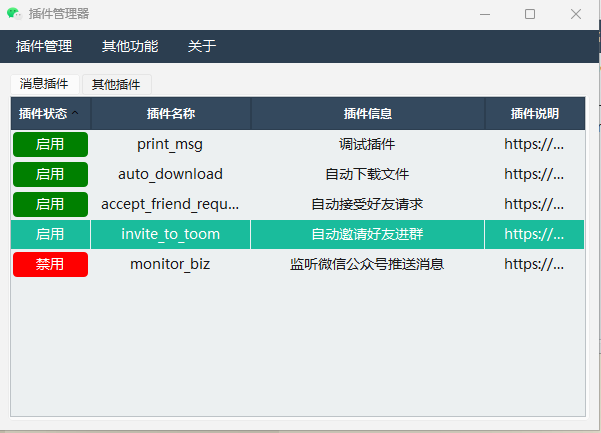
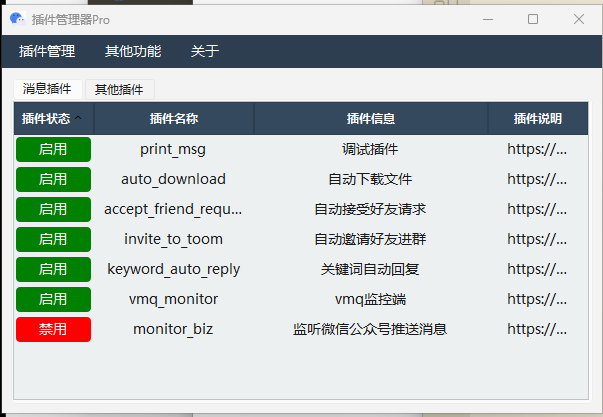
更新README

diff --git a/README.md b/README.md
@@ -8,20 +8,31 @@
 
 #### 更新频率
 
-因为很多功能我用不到，所以大概率只会添加一些常用功能和我会用到的功能，文章介绍的话请看：https://mp.weixin.qq.com/mp/appmsgalbum?__biz=MzU0OTkwODU2MA==&action=getalbum&album_id=3904319476392476689#wechat_redirect
+因为很多功能我用不到，所以大概率只会添加一些常用功能和我会用到的功能，文章介绍的话请看：`https://mp.weixin.qq.com/mp/appmsgalbum?__biz=MzU0OTkwODU2MA==&action=getalbum&album_id=3904319476392476689#wechat_redirect`
 
 ![](image/1.png)
 
+![](image/0.png)
+
 #### 功能列表
 
-- [x] [监控公众号推送](https://mp.weixin.qq.com/s/S3nFVPHAhxn23MQb_Mct-Q)
+免费插件
+
+- [x] [监控公众号推送](https://mp.weixin.qq.com/s/YEG0DrQjVqBjeXvKnNqlAw)
 - [x] [自动同意好友请求](https://mp.weixin.qq.com/s/Ky62rpaw-T72O6gL3M8Zrw)
 - [x] [关键词自动邀请进群](https://mp.weixin.qq.com/s/Ky62rpaw-T72O6gL3M8Zrw)
 - [x] [自动下载文件、图片和视频](https://mp.weixin.qq.com/s/mZvxw1rTzjPzgcRPETtS_w)
 - [x] [关键词自动回复](https://mp.weixin.qq.com/s/oJ8COdZiKJSG0_hrVtOqqA)
 - [x] [带撤回提示的防撤回](https://mp.weixin.qq.com/s/y8bV-AFSpVOYZC5N8ElpcA)
 - [x] [公众号历史文章采集](https://mp.weixin.qq.com/s/JiaIxZ6yWGVraV_vYLkoDA)
-- [ ] v免签监控端
+
+以下是收费插件
+
+- [x] [v免签监控端](https://mp.weixin.qq.com/s/cK71s92cUAtYeJKZ_5yzIw)
+- [x] [公众号历史远程接口](https://mp.weixin.qq.com/s/AfB-riuJu59f4bmpJW07xg)
+
+以下是待更新插件
+
 - [ ] 进群提示
 - [ ] 单向好友检测
 - [ ] 对接知识库做智能客服
@@ -35,8 +46,8 @@
 
 #### 准备工作
 
-- 3.9.12.37版本的绿色版微信，官方下载地址: `http://dldir1.qq.com/weixin/Windows/WeChat_3.9.12_update37.zip` ，解压后启动里面的WeChat.exe。
-- 监听程序
+- 3.9.12.37版本的绿色版微信，官方下载地址: `http://dldir1.qq.com/weixin/Windows/WeChat_3.9.12_update37.zip`，也可以在上面的网盘里下载。
+- 监听程序，看上面的网盘
 
 #### 使用方法
 
@@ -51,7 +62,7 @@
 
 配置需要保存的方式，当公众号发文时就会推送到对应的配置。
 
-具体介绍请看: https://mp.weixin.qq.com/s/S3nFVPHAhxn23MQb_Mct-Q
+具体介绍请看: https://mp.weixin.qq.com/s/YEG0DrQjVqBjeXvKnNqlAw
 
 如果还需要采集公众号历史/搜一搜/视频号等数据可以看收费的接口: https://v2i7lj8pzi.apifox.cn
 
